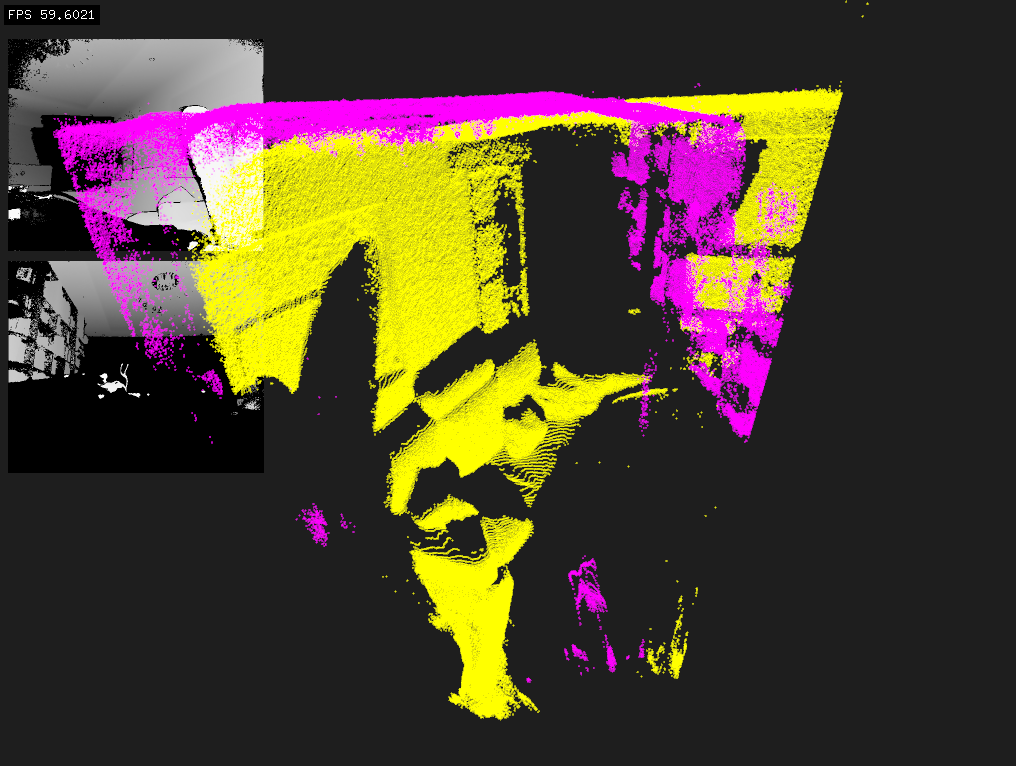
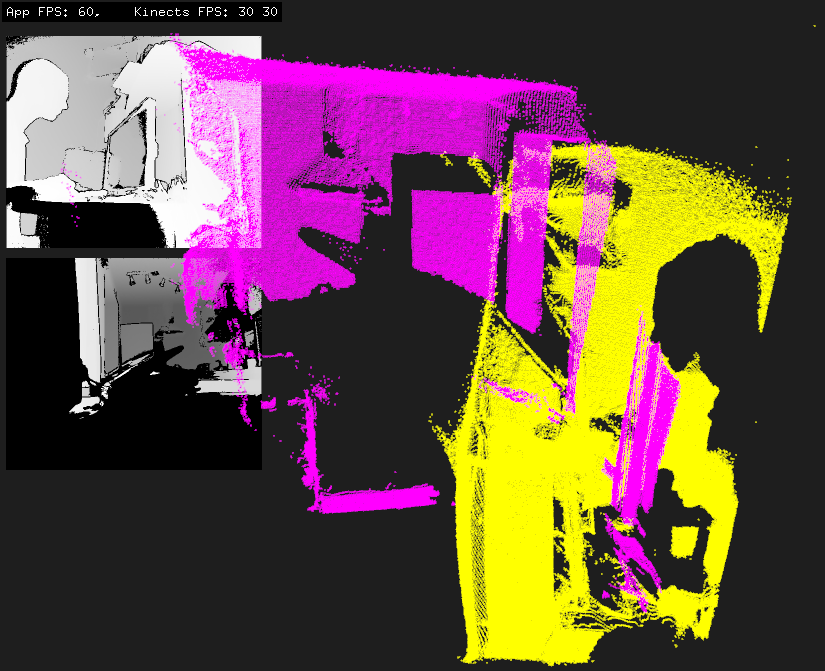
output Kinect's FPS on the screen. disable JPEG parsing if settings.rgb = false

diff --git a/libs/protonect/ofProtonect.cpp b/libs/protonect/ofProtonect.cpp
@@ -54,9 +54,10 @@ ofProtonect::ofProtonect() {
 
 int ofProtonect::openKinect(string serial, KinectV2Settings settings) {
 	settings_ = settings;
+	settings.rgb = true;	//TODO fix it!! currently false leads to crash
 
-	if (settings_.pipe_gl) pipeline = new libfreenect2::OpenGLPacketPipeline();
-	else pipeline = new libfreenect2::CpuPacketPipeline();
+	if (settings_.pipe_gl) pipeline = new libfreenect2::OpenGLPacketPipeline(0, false, settings_.rgb);
+	else pipeline = new libfreenect2::CpuPacketPipeline(settings_.rgb);
 	//        pipeline = new libfreenect2::OpenCLPacketPipeline();
 
 	if (pipeline) {
@@ -68,10 +69,10 @@ int ofProtonect::openKinect(string serial, KinectV2Settings settings) {
 		return -1;
 	}
 	
-	unsigned int frame_type = (settings_.rgb) * libfreenect2::Frame::Color
-		+ (settings_.depth) * (libfreenect2::Frame::Ir | libfreenect2::Frame::Depth);	
+	unsigned int frame_type = (settings.rgb) * libfreenect2::Frame::Color
+		+ (settings.depth) * (libfreenect2::Frame::Ir | libfreenect2::Frame::Depth);	
 	listener = new libfreenect2::SyncMultiFrameListener(frame_type);
-	if (settings_.register_depth_rgb) {
+	if (settings.register_depth_rgb) {
 		undistorted = new libfreenect2::Frame(depth_w, depth_h, 4);
 		registered = new libfreenect2::Frame(depth_w, depth_h, 4);
 	}
@@ -80,10 +81,10 @@ int ofProtonect::openKinect(string serial, KinectV2Settings settings) {
 		registered = 0;
 	}
 
-	if (settings_.rgb) {
+	if (settings.rgb) {
 		dev->setColorFrameListener(listener);
 	}
-	if (settings_.depth) {
+	if (settings.depth) {
 		dev->setIrAndDepthFrameListener(listener);
 	}
 	dev->start();
@@ -91,7 +92,7 @@ int ofProtonect::openKinect(string serial, KinectV2Settings settings) {
 	ofLogVerbose("ofProtonect::openKinect") << "device serial: " << dev->getSerialNumber();
 	ofLogVerbose("ofProtonect::openKinect") << "device firmware: " << dev->getFirmwareVersion();
 
-	if (settings_.register_depth_rgb) {
+	if (settings.register_depth_rgb) {
 		registration = new libfreenect2::Registration(dev->getIrCameraParams(), dev->getColorCameraParams());
 	}
 

diff --git a/example_pcloud/src/ofApp.cpp b/example_pcloud/src/ofApp.cpp
@@ -20,7 +20,7 @@ void ofApp::setup(){
     //Note you don't have to use ofxKuKinectV2 as a shared pointer, but if you want to have it in a vector ( ie: for multuple ) it needs to be.
     for(int d = 0; d < kinects.size(); d++){
 		KinectV2Settings settings;
-		//settings.rgb = false;	//doesn't works, // TODO
+		settings.rgb = false;	
         kinects[d] = shared_ptr <ofxKuKinectV2> (new ofxKuKinectV2());
         kinects[d]->open(deviceList[d].serial, settings);
     }
@@ -41,13 +41,13 @@ void ofApp::update(){
 }
 
 //--------------------------------------------------------------
-void ofApp::draw(){
-    for(int d = 0; d < kinects.size(); d++){
+void ofApp::draw() {
+	for (int d = 0; d < kinects.size(); d++) {
 		ofTexture &tex = texDepth[d];
-        float shiftY = 40 + ((10 + tex.getHeight()/2) * d);
+		float shiftY = 40 + ((10 + tex.getHeight() / 2) * d);
 		ofSetColor(255);
 		texDepth[d].draw(10, shiftY, tex.getWidth() / 2, tex.getHeight() / 2);
-    }
+	}
 	cam.begin();
 	for (int d = 0; d < kinects.size(); d++) {
 		ofMesh mesh;
@@ -65,7 +65,11 @@ void ofApp::draw(){
 		ofPopMatrix();
 	}
 	cam.end();
-	ofDrawBitmapStringHighlight("FPS " + ofToString(ofGetFrameRate()), 10, 20);
+	string fps = "App FPS: " + ofToString(ofGetFrameRate(),0) + ",    Kinects FPS:";
+	for (int d = 0; d < kinects.size(); d++) {
+		fps += " " + ofToString(kinects[d]->fps(), 0);
+	}
+	ofDrawBitmapStringHighlight(fps, 10, 20);
 }
 
 //--------------------------------------------------------------

diff --git a/libs/libfreenect2/src/packet_pipeline.cpp b/libs/libfreenect2/src/packet_pipeline.cpp
@@ -40,12 +40,12 @@ PacketPipeline::~PacketPipeline()
 {
 }
 
-void BasePacketPipeline::initialize()
+void BasePacketPipeline::initialize(bool rgb_active)
 {
   rgb_parser_ = new RgbPacketStreamParser();
   depth_parser_ = new DepthPacketStreamParser();
 
-  rgb_processor_ = new ofRGBPacketProcessor();
+  rgb_processor_ = new ofRGBPacketProcessor(rgb_active);
   depth_processor_ = createDepthPacketProcessor();
 
   async_rgb_processor_ = new AsyncPacketProcessor<RgbPacket>(rgb_processor_);
@@ -85,9 +85,9 @@ DepthPacketProcessor *BasePacketPipeline::getDepthPacketProcessor() const
   return depth_processor_;
 }
 
-CpuPacketPipeline::CpuPacketPipeline()
+CpuPacketPipeline::CpuPacketPipeline(bool rgb_active)
 { 
-  initialize();
+  initialize(rgb_active);
 }
 
 CpuPacketPipeline::~CpuPacketPipeline() { }
@@ -100,9 +100,9 @@ DepthPacketProcessor *CpuPacketPipeline::createDepthPacketProcessor()
 }
 
 #ifdef LIBFREENECT2_WITH_OPENGL_SUPPORT
-OpenGLPacketPipeline::OpenGLPacketPipeline(void *parent_opengl_context, bool debug) : parent_opengl_context_(parent_opengl_context), debug_(debug)
+OpenGLPacketPipeline::OpenGLPacketPipeline(void *parent_opengl_context, bool debug, bool rgb_active) : parent_opengl_context_(parent_opengl_context), debug_(debug)
 { 
-  initialize();
+  initialize(rgb_active);
 }
 
 OpenGLPacketPipeline::~OpenGLPacketPipeline() { }

diff --git a/libs/protonect/ofRGBPacketProcessor.cpp b/libs/protonect/ofRGBPacketProcessor.cpp
@@ -10,31 +10,34 @@
 namespace libfreenect2
 {
 
-ofRGBPacketProcessor::ofRGBPacketProcessor(){
-    newFrame();
-}
+	ofRGBPacketProcessor::ofRGBPacketProcessor(bool active) {
+		active_ = active;
+		newFrame();
+	}
 
-ofRGBPacketProcessor::~ofRGBPacketProcessor(){
+	ofRGBPacketProcessor::~ofRGBPacketProcessor() {
 
-}
+	}
 
-void ofRGBPacketProcessor::newFrame(){
-    frame = new Frame(1920, 1080, 3);
-}
+	void ofRGBPacketProcessor::newFrame() {
+		frame = new Frame(1920, 1080, 3);
+	}
 
-void ofRGBPacketProcessor::process(const libfreenect2::RgbPacket &packet){
-    ofBuffer tmp;
-    tmp.set( ( char * )packet.jpeg_buffer, (unsigned int)packet.jpeg_buffer_length);
-    
-    if( ofLoadImage(pix, tmp) ){
-    
-      memcpy(frame->data, pix.getPixels(), pix.size());
-    
-      if(listener_->onNewFrame(Frame::Color, frame)){
-        newFrame();
-      }
-    }
-
-}
-
+	void ofRGBPacketProcessor::process(const libfreenect2::RgbPacket &packet) {
+		if (active_) {
+			ofBuffer tmp;
+			tmp.set((char *)packet.jpeg_buffer, (unsigned int)packet.jpeg_buffer_length);
+			if (ofLoadImage(pix, tmp)) {
+				memcpy(frame->data, pix.getPixels(), pix.size());
+				if (listener_->onNewFrame(Frame::Color, frame)) {
+					newFrame();
+				}
+			}
+		}
+		else {
+			if (listener_->onNewFrame(Frame::Color, frame)) {
+				newFrame();
+			}
+		}
+	}
 };

diff --git a/libs/libfreenect2/include/libfreenect2/packet_pipeline.h b/libs/libfreenect2/include/libfreenect2/packet_pipeline.h
@@ -67,7 +67,7 @@ protected:
   DepthPacketProcessor *depth_processor_;
   BaseDepthPacketProcessor *async_depth_processor_;
 
-  virtual void initialize();
+  virtual void initialize(bool rgb_active);
   virtual DepthPacketProcessor *createDepthPacketProcessor() = 0;
 public:
   virtual ~BasePacketPipeline();
@@ -85,7 +85,7 @@ class  CpuPacketPipeline : public BasePacketPipeline
 protected:
   virtual DepthPacketProcessor *createDepthPacketProcessor();
 public:
-  CpuPacketPipeline();
+  CpuPacketPipeline(bool rgb_active = true);
   virtual ~CpuPacketPipeline();
 };
 
@@ -98,7 +98,7 @@ protected:
   bool debug_;
   virtual DepthPacketProcessor *createDepthPacketProcessor();
 public:
-  OpenGLPacketPipeline(void *parent_opengl_context = 0, bool debug = false);
+  OpenGLPacketPipeline(void *parent_opengl_context = 0, bool debug = false, bool rgb_active = true);
   virtual ~OpenGLPacketPipeline();
 };
 #endif // LIBFREENECT2_WITH_OPENGL_SUPPORT

diff --git a/libs/protonect/ofRGBPacketProcessor.h b/libs/protonect/ofRGBPacketProcessor.h
@@ -17,7 +17,7 @@ namespace libfreenect2{
 class ofRGBPacketProcessor : public RgbPacketProcessor{
 
     public:
-        ofRGBPacketProcessor();
+        ofRGBPacketProcessor(bool active = true);
         ~ofRGBPacketProcessor();
     
          void process(const libfreenect2::RgbPacket &packet);
@@ -26,6 +26,7 @@ class ofRGBPacketProcessor : public RgbPacketProcessor{
         void newFrame();
         Frame *frame;
         ofPixels pix; 
+		bool active_;
 
 };
 

diff --git a/example_multiple/src/ofApp.cpp b/example_multiple/src/ofApp.cpp
@@ -59,6 +59,11 @@ void ofApp::draw(){
         texDepth[d].draw(200, shiftY);
         texRGB[d].draw(210 + texDepth[d].getWidth(), shiftY, dwHD, dhHD);
     }
+	string fps = "App FPS: " + ofToString(ofGetFrameRate(), 0) + ",    Kinects FPS:";
+	for (int d = 0; d < kinects.size(); d++) {
+		fps += " " + ofToString(kinects[d]->fps(), 0);
+	}
+	ofDrawBitmapStringHighlight(fps, 10, 20);
 }
 
 //--------------------------------------------------------------

diff --git a/README.md b/README.md
@@ -52,6 +52,7 @@ Enjoy. For any questions contact us: kukuflex@gmail.com
 
 ###TODO
 - Fix error that setting KinectV2Settings settings.rgb=false leads to crash in ofProtonect::updateKinect, listener->waitForNewFrame(frames);
+   now we don't decode JPEGs, but anyway in poor lighting Kinect's fps falls from 30 to 15. So we need to disable RGB completely if we don't need them.
 - Implement RGB - Depth registration (i.e. geometrical synchronization)
 - Output IR image
 - Optionally colorize point cloud
